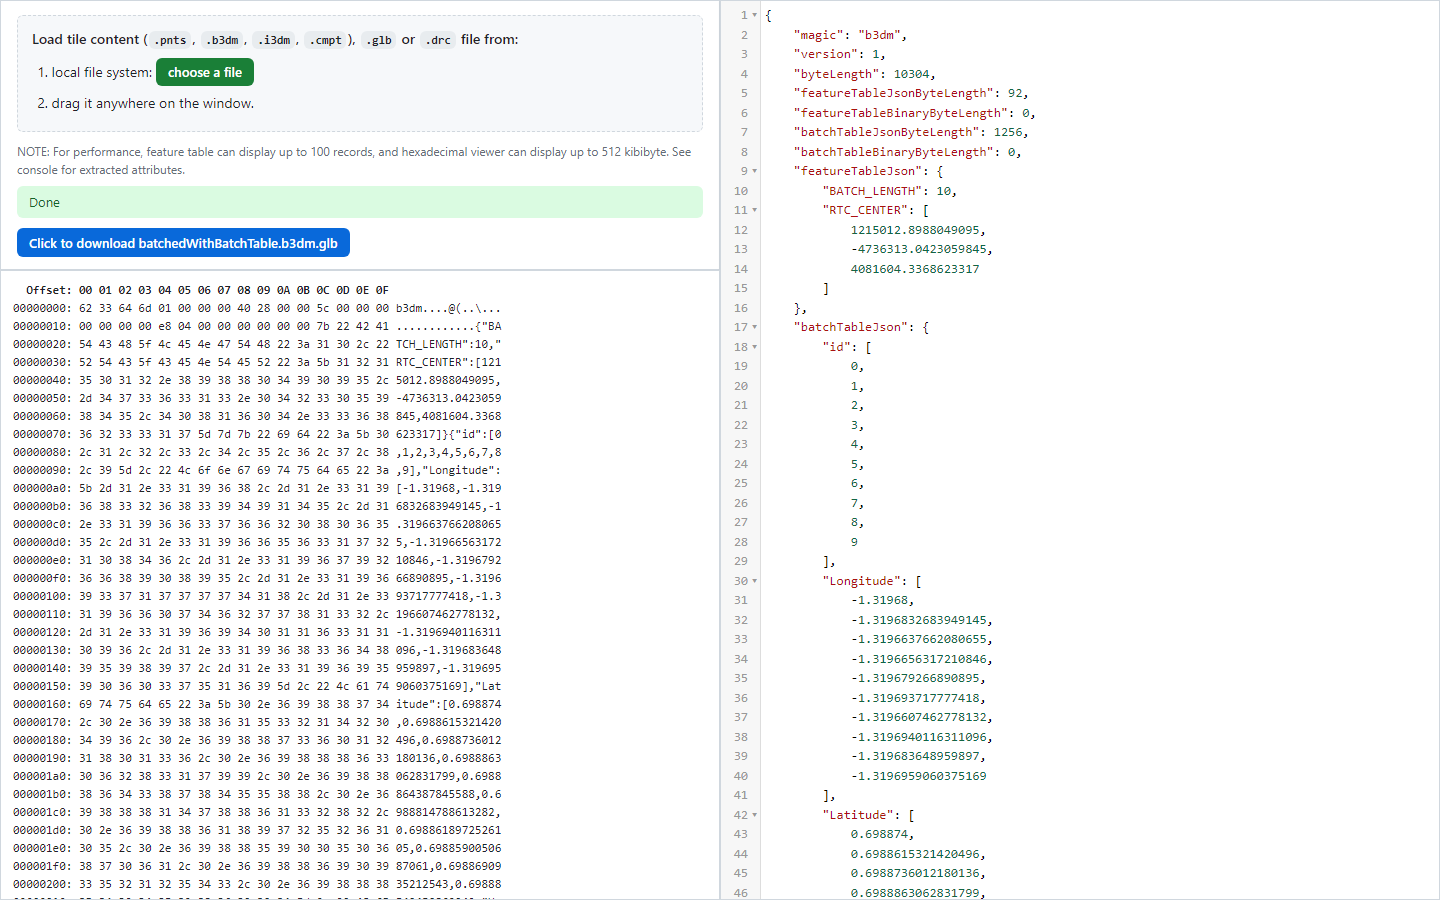
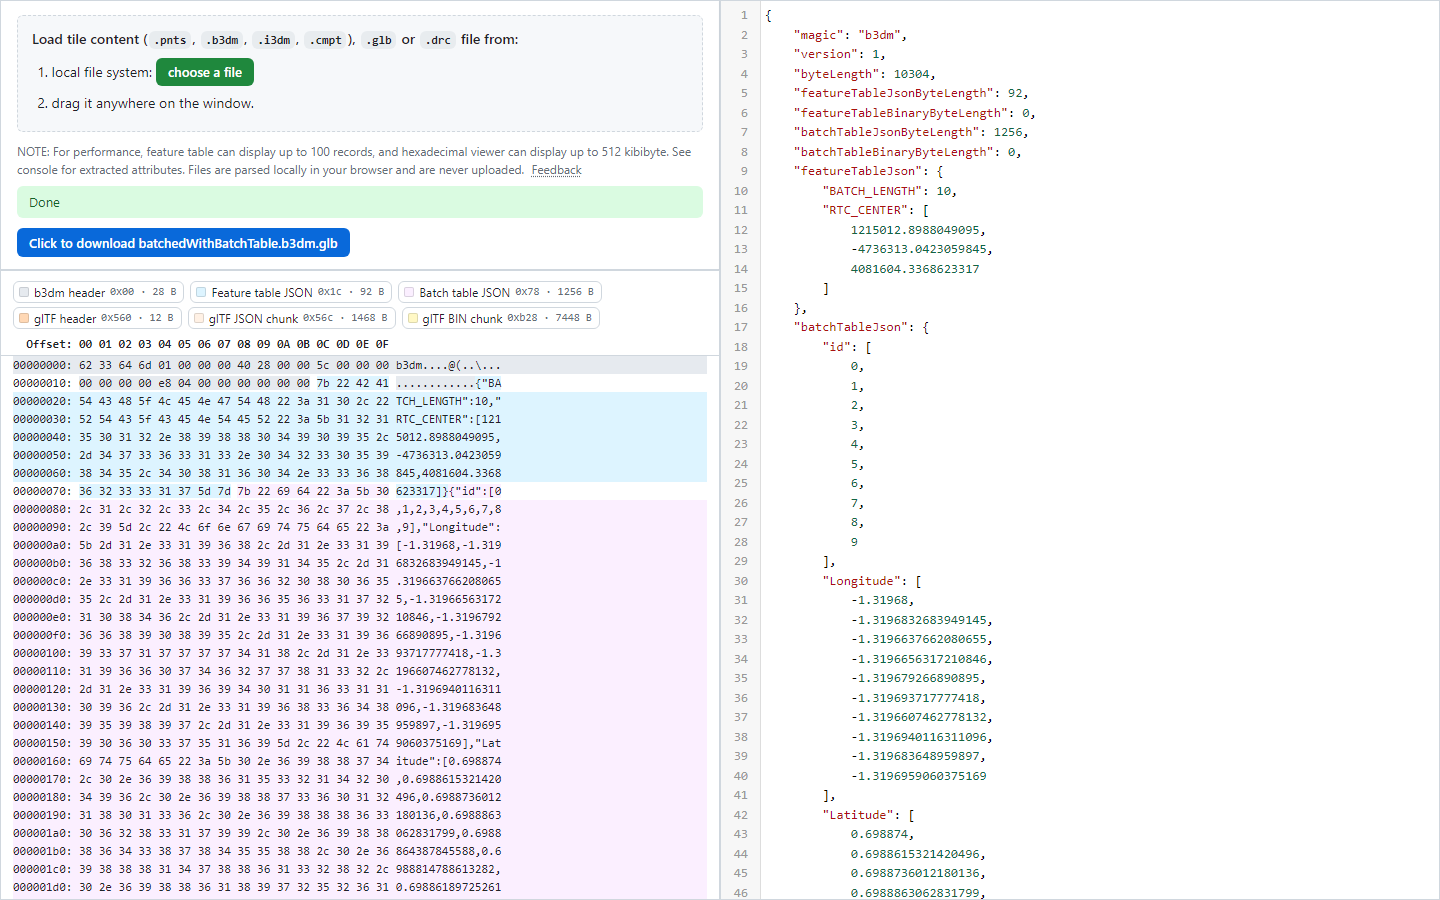
docs: rewrite README and refresh screenshots
Describe the new features (colour-coded hex view, click-to-reveal bytes,
samples, ?url=), usage, tests and deployment; replace the screenshot and add
jump-to-bytes and start-screen images; fix the dead 3D Tiles spec link.

Changed region(s): [[0.0, 0.3111, 0.5, 1.0], [0.125, 0.1867, 0.4062, 0.2178]]

diff --git a/README.md b/README.md
@@ -1,45 +1,81 @@
 # 3D tile content inspector
 
-[3D tile content](https://github.com/CesiumGS/3d-tiles/blob/master/specification/README.md#tile-format-specifications) inspector.
+Inspect [3D Tiles content](https://github.com/CesiumGS/3d-tiles/blob/main/specification/README.adoc) in the browser: see the parsed structure as JSON, next to a hex view of the bytes.
 
-[![screenshot.png](docs/screenshot.png)](https://3d-tile-content-inspector.vercel.app/)
+**Try it: <https://3d-tile-content-inspector.vercel.app/>**
+
+[![Inspecting a b3dm: parsed JSON on the right, colour-coded hex view on the left](docs/screenshot.png)](https://3d-tile-content-inspector.vercel.app/)
 
 ## Supported formats
 
-- [x] .pnts
-- [x] .b3dm
-- [x] .i3dm
-- [x] .cmpt
-- [x] .glb
-- [x] draco
+| Format | Notes |
+| --- | --- |
+| `.b3dm` | Batched 3D Model, including the embedded glb |
+| `.i3dm` | Instanced 3D Model, embedded glb or glTF URI |
+| `.pnts` | Point Cloud, including `3DTILES_draco_point_compression` |
+| `.cmpt` | Composite, each inner tile is inspected |
+| `.glb` | Binary glTF 2.0, including `KHR_draco_mesh_compression` |
+| `.drc` | Draco-compressed mesh or point cloud |
 
 ## Features
 
-- Colour-coded hex viewer: headers, feature/batch tables and glTF chunks are highlighted, with a legend to jump to each section.
-- Click a field such as `featureTableJson` or `glb` in the JSON view to reveal its bytes.
-- Open `?url=<file URL>` to load a file directly, e.g. to share a link (the server must allow CORS).
-- Sample files on the start screen (see `src/samples/README.md` for sources and licenses).
-- Files are parsed locally in the browser and never uploaded.
+- **Structure and bytes side by side.** The hex view is colour-coded by section (tile header, feature/batch table JSON and binary, glTF header, JSON and BIN chunks), with a legend that jumps to each one.
+- **Click a field to find its bytes.** Clicking `featureTableJson`, `batchTableJsonByteLength`, `glb`, ... in the JSON view scrolls the hex view to that section and highlights it. In a `.cmpt`, each tile's fields point at that tile.
 
-## Dependencies
+  ![Clicking "glb" in the JSON view highlights the glTF header in the hex view](docs/jump-to-bytes.png)
 
-- Draco
-- codemirror-5.59.4
+- **Feature and batch tables decoded.** Binary properties (e.g. `POSITION`, `RGB`, `BATCH_ID`) and Draco-compressed attributes are shown as values.
+- **Embedded glb download.** For `.b3dm` and `.i3dm`, the embedded glb can be saved as a separate file.
+- **Private.** Files are parsed locally in the browser and never uploaded.
 
-See `src/thirdParty`.
+## Usage
+
+Open the app, then load a file in one of these ways:
+
+- **Choose a file**, or **drag it** anywhere onto the window.
+- Click one of the **samples** on the start screen.
+- Open the app with **`?url=<file URL>`** to load a file directly, for example to share a link:
+
+  ```
+  https://3d-tile-content-inspector.vercel.app/?url=https://example.com/tiles/0.b3dm
+  ```
+
+  The file is fetched by the browser, so its server must allow cross-origin requests (CORS). If it doesn't, download the file and drop it in instead.
+
+![Start screen with sample files](docs/start-screen.png)
+
+For performance, feature tables show up to 100 records and the hex view shows the first 512 KiB. Extracted glTF attributes are printed to the browser console.
+
+Found a bug or have an idea? Use the **Feedback** link in the app, or [open an issue](https://github.com/bbbbx/3d-tile-content-inspector/issues/new).
 
 ## Development
 
-Update submodule:
+No build step: the app in `src/` runs directly in the browser as ES modules.
+
+Fetch the Draco decoder submodule first; Draco-compressed content can't be decoded without it:
 
 ```bash
 git submodule update --init --recursive
 ```
 
-Lift development server:
+Start a dev server and open <http://127.0.0.1:8080/src>:
 
-```
+```bash
 npx http-server
 ```
 
-Open `http://127.0.0.1:8080/src`.
+Run the end-to-end tests ([Playwright](https://playwright.dev/); a server on port 5504 is started automatically):
+
+```bash
+npm test                              # installs browsers, then runs all tests
+npx playwright test -g "can inspect b3dm"   # a single test
+```
+
+To deploy, serve the `src/` directory as the site root.
+
+## Dependencies
+
+- [Draco](https://github.com/google/draco) (git submodule)
+- [CodeMirror 5.59.4](https://codemirror.net/5/)
+
+Both are in `src/thirdParty`. Sample files are listed with their sources and licenses in [`src/samples/README.md`](src/samples/README.md).
